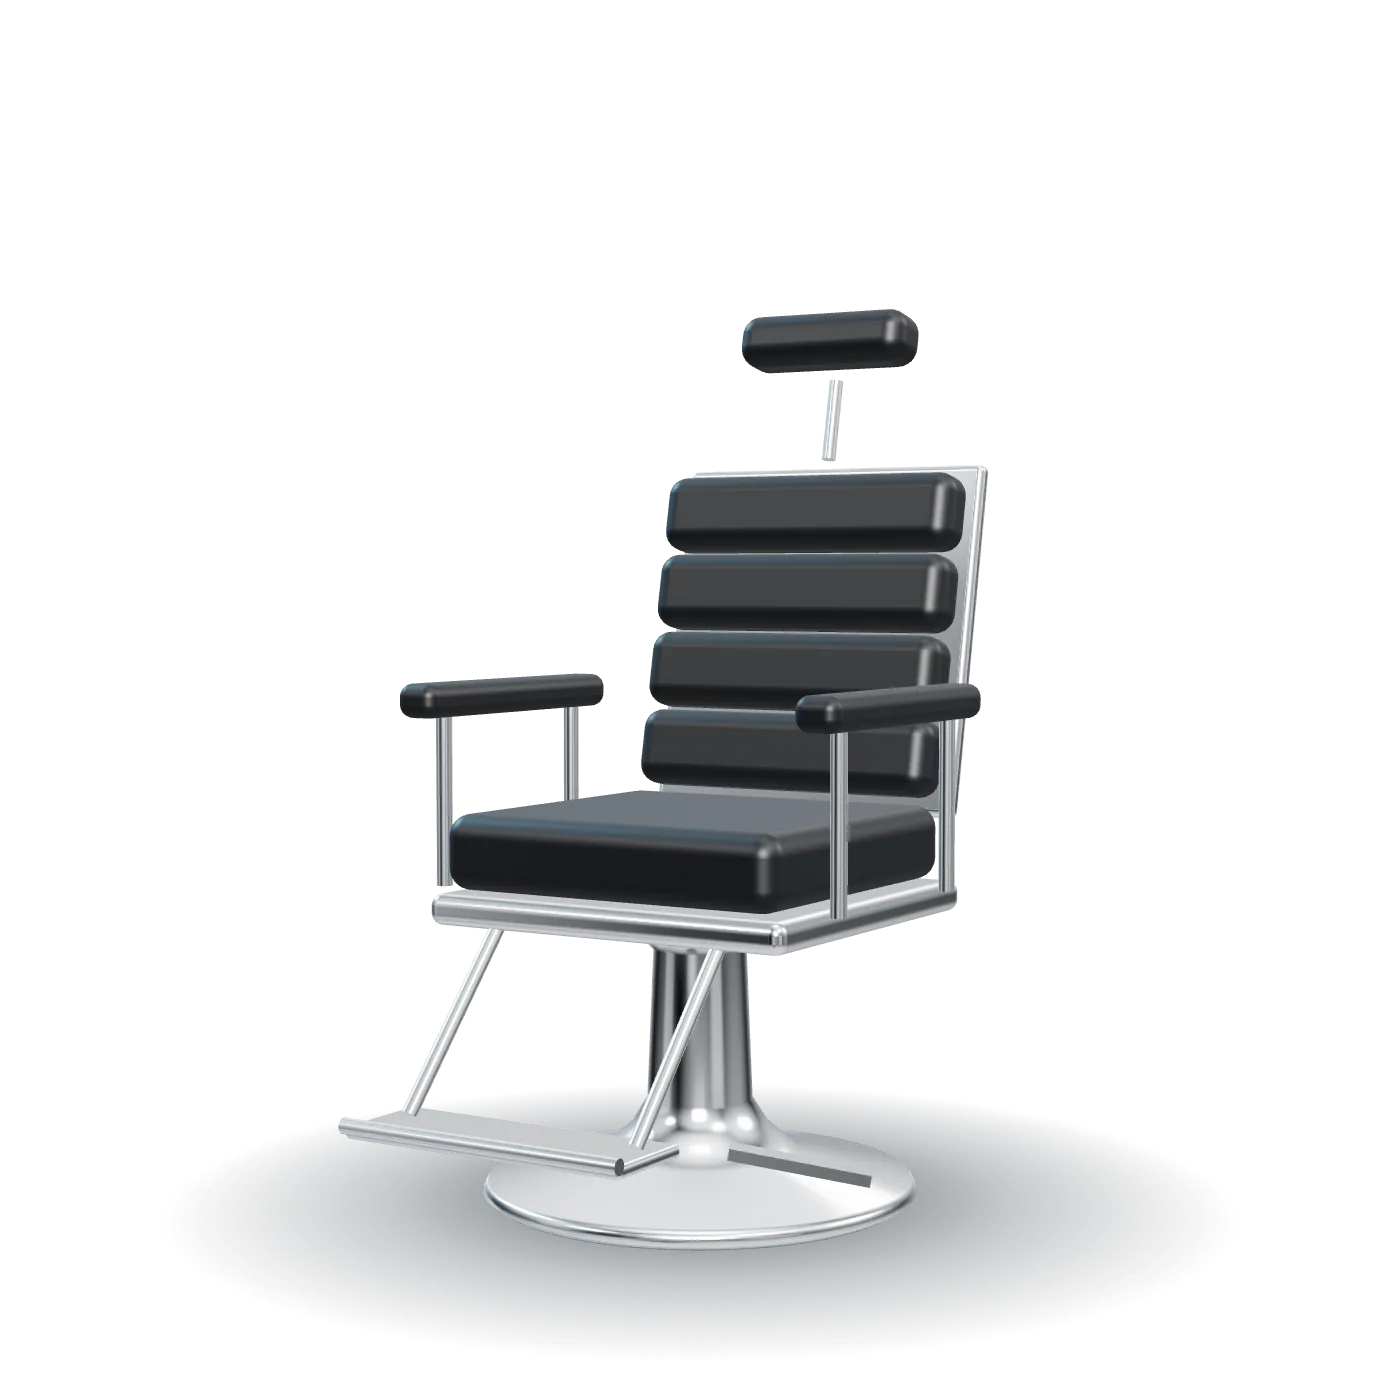
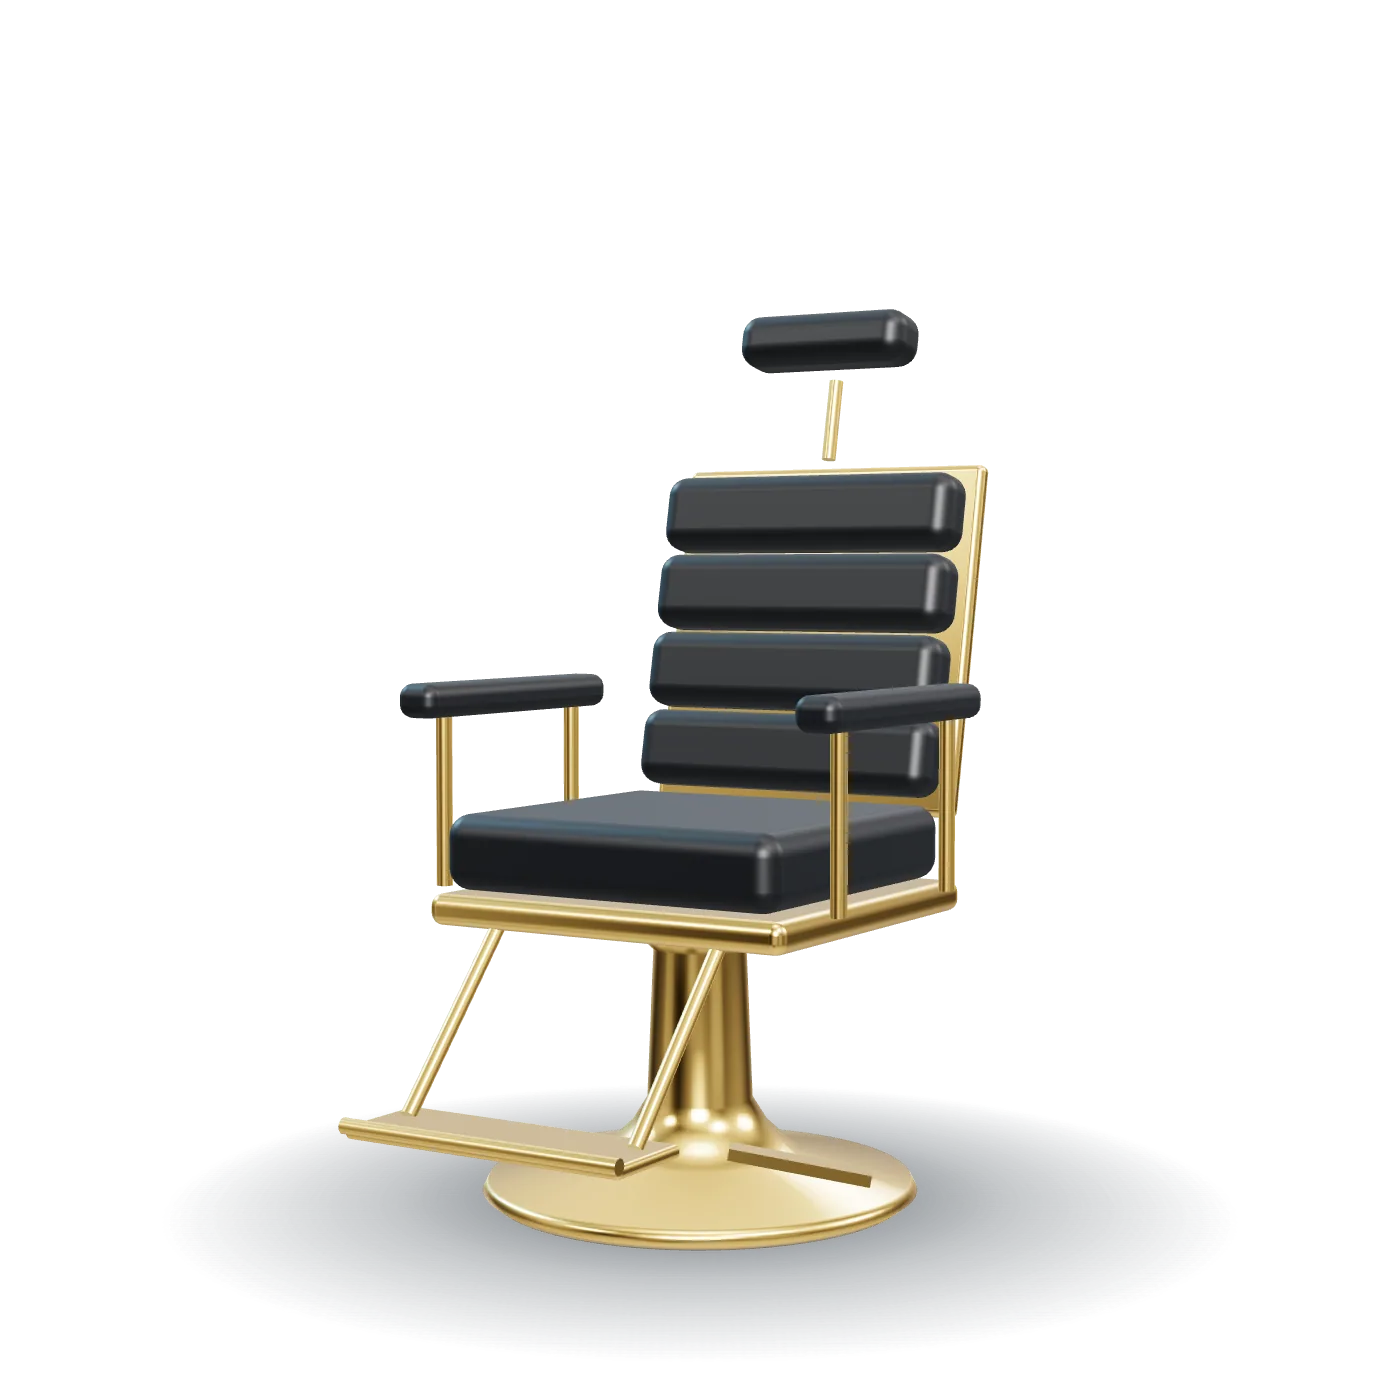
Gold chair, "Punët tona" from the shop's Instagram, the barbers, Instagram and TikTok
- The 3D chair's metal is gold, like the shop's own chairs (black leather on
  gold frames); stills and link-preview images re-rendered.
- "Punët tona / Our work": 8 photos from the shop's public Instagram posts
  (@barber.___.bros), cropped to 4:5, each linking to its post.
- The barbers from the shop's Instagram bio: Edison, Taulant and Danieli, with
  their numbers and handles; one call button each.
- Instagram (@barber.___.bros) and TikTok (@barber.bros8) linked in Visit, the
  footer and the schema.org data (sameAs).

Changed region(s): [[0.2457, 0.2764, 0.7064, 0.8907], [0.3993, 0.4914, 0.43, 0.5836], [0.5221, 0.4914, 0.5529, 0.5221]]

diff --git a/src/i18n/copy.ts b/src/i18n/copy.ts
@@ -23,11 +23,11 @@ export const copy = {
     },
     bar: { preview: 'Parapamje', language: 'Gjuha', names: { sq: 'Shqip', en: 'English' } },
     status: { open: 'Hapur tani · mbyll në {close}', before: 'Mbyllur · hap në {open}', after: 'Mbyllur · hap nesër në {open}' },
-    nav: { label: 'Seksionet', home: 'Barber Bros, faqja kryesore', prices: 'Çmimet', barbers: 'Berberët', visit: 'Ku jemi', footer: 'Fundi i faqes', brand: 'Identiteti i markës' },
-    ids: { prices: 'cmimet', book: 'termini', barbers: 'berberet', visit: 'ku-jemi' },
+    nav: { label: 'Seksionet', home: 'Barber Bros, faqja kryesore', prices: 'Çmimet', work: 'Punët', barbers: 'Berberët', visit: 'Ku jemi', footer: 'Fundi i faqes', brand: 'Identiteti i markës' },
+    ids: { prices: 'cmimet', work: 'punet', book: 'termini', barbers: 'berberet', visit: 'ku-jemi' },
     cta: { book: 'Rezervo', bookLong: ' në WhatsApp', opens: ' (hap WhatsApp)', call: 'Telefono', stop: 'Ndalo', stopLong: ' animacionet' },
     hero: {
-      still: 'Karrige berberi me lëkurë të zezë mbi një bazë kromi',
+      still: 'Karrige berberi me lëkurë të zezë mbi një bazë ngjyrë ari',
       intro: 'Prerje, fade, mjekër dhe rruajtje.',
       cut: 'Prerja.',
       cutLine: 'Gërshërë, makinetë dhe një fade që e mban formën kur rritet.',
@@ -42,7 +42,7 @@ export const copy = {
       from: 'Çmimet nisin nga {from} lekë.',
       others: 'Për {list}, pyet në dyqan, në telefon ose në WhatsApp.',
       cta: 'Merr termin',
-      fig: 'Karrigia e berberit e parë nga anash: shpina me jastëkë lëkure, mbështetësja e këmbëve dhe pedali prej kromi',
+      fig: 'Karrigia e berberit e parë nga anash: shpina me jastëkë lëkure, mbështetësja e këmbëve dhe pedali ngjyrë ari',
     },
     book: {
       title: 'Merr termin',
@@ -65,7 +65,8 @@ export const copy = {
       weekdayPhrases: ['të dielën', 'të hënën', 'të martën', 'të mërkurën', 'të enjten', 'të premten', 'të shtunën'],
       months: ['janar', 'shkurt', 'mars', 'prill', 'maj', 'qershor', 'korrik', 'gusht', 'shtator', 'tetor', 'nëntor', 'dhjetor'],
     },
-    barbers: { title: 'Berberët', photo: 'Foto nga dyqani', name: 'Berberi {n}', soon: 'Emri së shpejti' },
+    work: { title: 'Punët tona', intro: 'Nga Instagrami i dyqanit: prerje, fade dhe mjekra të bëra këtu, në Fier.', credit: 'Foto nga', follow: 'Na ndiq në Instagram', opens: ' (hap Instagram)' },
+    barbers: { title: 'Berberët', photo: 'Foto së shpejti', callName: 'Telefono {name}' },
     visit: {
       title: 'Ku jemi',
       address: 'Adresa',
@@ -93,7 +94,7 @@ export const copy = {
       dlLogo: 'Logoja horizontale, SVG',
       dlIcon: 'Ikona, SVG',
       coloursTitle: 'Dy ngjyra',
-      coloursLead: 'Bluja mbulon sipërfaqen, rreth dy të tretat e çdo faqeje; e zeza mban shkrimin dhe objektet. Kromi dhe e bardha shfaqen vetëm në fotografi dhe te karrigia.',
+      coloursLead: 'Bluja mbulon sipërfaqen, rreth dy të tretat e çdo faqeje; e zeza mban shkrimin dhe objektet. Ari dhe e bardha shfaqen vetëm në fotografi dhe te karrigia.',
       typeTitle: 'Fontet',
       displaySpec: 'Big Shoulders Display',
       displayNote: ', pesha 800-900, me shkronja kapitale. Për emrin, titujt, çmimet dhe tabelat. Licencë SIL Open Font.',
@@ -117,11 +118,11 @@ export const copy = {
     },
     bar: { preview: 'Preview', language: 'Language', names: { sq: 'Shqip', en: 'English' } },
     status: { open: 'Open now · closes {close}', before: 'Closed · opens {open}', after: 'Closed · opens tomorrow {open}' },
-    nav: { label: 'Sections', home: 'Barber Bros, home', prices: 'Prices', barbers: 'Barbers', visit: 'Visit', footer: 'Footer', brand: 'Brand guidelines' },
-    ids: { prices: 'prices', book: 'book', barbers: 'barbers', visit: 'visit' },
+    nav: { label: 'Sections', home: 'Barber Bros, home', prices: 'Prices', work: 'Work', barbers: 'Barbers', visit: 'Visit', footer: 'Footer', brand: 'Brand guidelines' },
+    ids: { prices: 'prices', work: 'work', book: 'book', barbers: 'barbers', visit: 'visit' },
     cta: { book: 'Book', bookLong: ' on WhatsApp', opens: ' (opens WhatsApp)', call: 'Call', stop: 'Stop', stopLong: ' animations' },
     hero: {
-      still: 'A black leather barber chair on a chrome base',
+      still: 'A black leather barber chair on a gold base',
       intro: 'Cuts, fades, beards and shaves.',
       cut: 'The cut.',
       cutLine: 'Scissors, clippers and a fade that keeps its shape as it grows.',
@@ -136,7 +137,7 @@ export const copy = {
       from: 'Prices start at {from} lek.',
       others: 'For {list}, ask in the shop, by phone or on WhatsApp.',
       cta: 'Pick a time',
-      fig: 'The barber chair in profile: leather back, chrome footrest and pump pedal',
+      fig: 'The barber chair in profile: leather back, gold footrest and pump pedal',
     },
     book: {
       title: 'Pick a time',
@@ -158,7 +159,8 @@ export const copy = {
       weekdayPhrases: ['Sunday', 'Monday', 'Tuesday', 'Wednesday', 'Thursday', 'Friday', 'Saturday'],
       months: ['January', 'February', 'March', 'April', 'May', 'June', 'July', 'August', 'September', 'October', 'November', 'December'],
     },
-    barbers: { title: 'The barbers', photo: 'Photo from the shop', name: 'Barber {n}', soon: 'Name coming soon' },
+    work: { title: 'Our work', intro: 'From the shop’s Instagram: cuts, fades and beards done here, in Fier.', credit: 'Photos from', follow: 'Follow us on Instagram', opens: ' (opens Instagram)' },
+    barbers: { title: 'The barbers', photo: 'Photo coming soon', callName: 'Call {name}' },
     visit: {
       title: 'Visit',
       address: 'Address',
@@ -186,7 +188,7 @@ export const copy = {
       dlLogo: 'Horizontal logo, SVG',
       dlIcon: 'App icon, SVG',
       coloursTitle: 'Two colours',
-      coloursLead: 'Barber blue owns the surface, about two thirds of any layout; ink carries type and objects. Chrome and white only ever appear in photographs and in the chair.',
+      coloursLead: 'Barber blue owns the surface, about two thirds of any layout; ink carries type and objects. Gold and white only ever appear in photographs and in the chair.',
       typeTitle: 'Type',
       displaySpec: 'Big Shoulders Display',
       displayNote: ', weight 800-900, uppercase. For the name, headings, prices and signs. SIL Open Font License.',

diff --git a/src/scripts/chair.ts b/src/scripts/chair.ts
@@ -21,7 +21,8 @@ function buildChair() {
   const g = new THREE.Group();
   const leather = new THREE.MeshPhysicalMaterial({ color: 0x0a0c0f, roughness: 0.52, metalness: 0, sheen: 0.55, sheenColor: new THREE.Color(0x1e2a34), sheenRoughness: 0.6, clearcoat: 0.12, clearcoatRoughness: 0.5 });
   // no per-material envMapIntensity: with scene.environment set, three.js uses scene.environmentIntensity instead
-  const chrome = new THREE.MeshStandardMaterial({ color: 0xe6edf2, metalness: 1, roughness: 0.14 });
+  // polished gold, like the shop's own chairs (black leather on gold frames)
+  const gold = new THREE.MeshStandardMaterial({ color: 0xf5c872, metalness: 1, roughness: 0.2 });
   const add = (geo: THREE.BufferGeometry, mat: THREE.Material, x = 0, y = 0, z = 0, parent: THREE.Object3D = g) => {
     const m = new THREE.Mesh(geo, mat);
     m.position.set(x, y, z);
@@ -30,27 +31,27 @@ function buildChair() {
   };
   const rod = (a: THREE.Vector3, b: THREE.Vector3, r: number, parent: THREE.Object3D = g) => {
     const len = a.distanceTo(b);
-    const m = add(new THREE.CylinderGeometry(r, r, len, 20), chrome, (a.x + b.x) / 2, (a.y + b.y) / 2, (a.z + b.z) / 2, parent);
+    const m = add(new THREE.CylinderGeometry(r, r, len, 20), gold, (a.x + b.x) / 2, (a.y + b.y) / 2, (a.z + b.z) / 2, parent);
     m.quaternion.setFromUnitVectors(new THREE.Vector3(0, 1, 0), b.clone().sub(a).normalize());
     return m;
   };
 
   // hydraulic base
   const profile = [[0, 0], [0.33, 0], [0.35, 0.015], [0.34, 0.035], [0.16, 0.075], [0.11, 0.12], [0.085, 0.16], [0.075, 0.4], [0.095, 0.42], [0.095, 0.45], [0, 0.45]].map(([r, y]) => new THREE.Vector2(r, y));
-  add(new THREE.LatheGeometry(profile, 72), chrome);
+  add(new THREE.LatheGeometry(profile, 72), gold);
   // pump pedal
-  const lever = add(new THREE.BoxGeometry(0.22, 0.018, 0.05), chrome, 0.24, 0.1, 0.1);
+  const lever = add(new THREE.BoxGeometry(0.22, 0.018, 0.05), gold, 0.24, 0.1, 0.1);
   lever.rotation.set(0, 0.5, -0.18);
   // seat frame and cushion
-  add(new RoundedBoxGeometry(0.64, 0.05, 0.6, 3, 0.02), chrome, 0, 0.475, 0);
+  add(new RoundedBoxGeometry(0.64, 0.05, 0.6, 3, 0.02), gold, 0, 0.475, 0);
   add(new RoundedBoxGeometry(0.6, 0.12, 0.56, 4, 0.036), leather, 0, 0.565, 0.01);
-  // backrest: channel-tufted rolls on a chrome back plate, leaning back
+  // backrest: channel-tufted rolls on a gold back plate, leaning back
   const back = new THREE.Group();
   back.position.set(0, 0.62, -0.27);
   back.rotation.x = -0.2;
   g.add(back);
   for (let i = 0; i < 4; i++) add(new RoundedBoxGeometry(0.56, 0.13, 0.09, 4, 0.034), leather, 0, 0.08 + i * 0.138, 0, back);
-  add(new RoundedBoxGeometry(0.58, 0.6, 0.03, 3, 0.012), chrome, 0, 0.29, -0.07, back);
+  add(new RoundedBoxGeometry(0.58, 0.6, 0.03, 3, 0.012), gold, 0, 0.29, -0.07, back);
   // headrest on a rod
   rod(new THREE.Vector3(0, 0.6, -0.04), new THREE.Vector3(0, 0.74, -0.04), 0.012, back);
   add(new RoundedBoxGeometry(0.32, 0.09, 0.1, 4, 0.034), leather, 0, 0.8, 0, back);
@@ -62,7 +63,7 @@ function buildChair() {
     rod(new THREE.Vector3(s * 0.2, 0.47, 0.26), new THREE.Vector3(s * 0.2, 0.2, 0.5), 0.012);
   }
   // footrest
-  add(new RoundedBoxGeometry(0.48, 0.02, 0.16, 3, 0.008), chrome, 0, 0.19, 0.52);
+  add(new RoundedBoxGeometry(0.48, 0.02, 0.16, 3, 0.008), gold, 0, 0.19, 0.52);
   rod(new THREE.Vector3(-0.24, 0.2, 0.6), new THREE.Vector3(0.24, 0.2, 0.6), 0.012);
   return g;
 }

diff --git a/src/data/gallery.ts b/src/data/gallery.ts
@@ -1,0 +1,19 @@
+// Work from the shop's own Instagram (@barber.___.bros), public posts read 2026-09-29: cover frames of reels,
+// cropped to 4:5 around the cut (public/img/ig/<post id>.webp). Left out on purpose: the photo with the actor
+// Odise Roshi (it would read as an endorsement) and the one with a child.
+import type { Lang } from '../i18n/copy';
+
+export interface Shot { id: string; kind: 'p' | 'reel'; alt: Record<Lang, string> }
+
+export const gallery: Shot[] = [
+  { id: 'DQ7KrJzjOtJ', kind: 'reel', alt: { sq: 'Fade anash me flokë të teksturuara sipër', en: 'Side fade with a textured top' } },
+  { id: 'DSNBNkejDcD', kind: 'reel', alt: { sq: 'Fade me vijë të prerë anash dhe gjatësi sipër', en: 'Fade with a cut-in line and length on top' } },
+  { id: 'DHMs6DwoCmk', kind: 'reel', alt: { sq: 'Skin fade me mjekër të konturuar', en: 'Skin fade with a lined-up beard' } },
+  { id: 'DOdnSIyAqBe', kind: 'reel', alt: { sq: 'Prerje e teksturuar me balluke dhe taper', en: 'Textured crop with a fringe and a taper' } },
+  { id: 'DI6fyb4qWcv', kind: 'reel', alt: { sq: 'Fade me vijë dhe mjekër, gërshërët në dorë', en: 'Fade with a line and a beard, scissors in hand' } },
+  { id: 'DJ4W_G4KA3A', kind: 'reel', alt: { sq: 'Skin fade i shkurtër, nga anash', en: 'Short skin fade, from the side' } },
+  { id: 'DJmZYB6KGbb', kind: 'reel', alt: { sq: 'Taper me mjekër të rregulluar', en: 'Taper with a trimmed beard' } },
+  { id: 'DJzRMUjKeQP', kind: 'reel', alt: { sq: 'Klient në karrigen e zezë me ar, ndërsa berberi punon me makinetë', en: 'A customer in the black and gold chair while the barber works with clippers' } },
+];
+
+export const postUrl = (s: Shot) => `https://www.instagram.com/${s.kind}/${s.id}/`;

diff --git a/src/data/shop.ts b/src/data/shop.ts
@@ -29,9 +29,21 @@ export const shop = {
     { id: 'mjeker', name: { sq: 'Rregullim mjekre', en: 'Beard trim' }, phrase: { sq: 'një rregullim mjekre', en: 'a beard trim' } },
     { id: 'rruajtje', name: { sq: 'Rruajtje me peshqir të nxehtë', en: 'Hot-towel shave' }, phrase: { sq: 'një rruajtje me peshqir të nxehtë', en: 'a hot-towel shave' } },
   ] as Service[],
-  team: { sample: true, count: 2 },
-  instagram: null as string | null,
+  /** the barbers and their booking numbers, as the shop lists them in its Instagram bio (read 2026-09-29);
+   *  handles from the posts that tag them. No portraits yet. Only the shop number is confirmed on WhatsApp. */
+  team: [
+    { name: 'Edison', phone: '+355 69 473 7557', instagram: 'edison_shametaj' },
+    { name: 'Taulant', phone: '+355 69 299 1511', instagram: null },
+    { name: 'Danieli', phone: '+355 68 328 8053', instagram: 'daniel.muratii' },
+  ] as { name: string; phone: string; instagram: string | null }[],
+  /** the shop's accounts, linked from its Google results */
+  instagram: 'barber.___.bros',
+  tiktok: 'barber.bros8',
 };
+
+export const instagramUrl = (handle: string) => `https://www.instagram.com/${handle}/`;
+export const tiktokUrl = (handle: string) => `https://www.tiktok.com/@${handle}`;
+export const telHref = (phone: string) => `tel:${phone.replace(/[^+\d]/g, '')}`;
 
 /** lek after the number, as on Albanian price boards */
 export const lek = (n: number) => `${n} L`;

diff --git a/NEEDS_CONTENT.md b/NEEDS_CONTENT.md
@@ -15,24 +15,37 @@ Barber Bros is a real shop in Fier, Albania, so nothing may be invented. Every f
 The address, phone and hours come from the shop's Google Maps listing, which Luca confirmed
 is correct.
 
+## From the shop's own accounts (2026-09-29)
+
+- **Instagram:** [@barber.___.bros](https://www.instagram.com/barber.___.bros/) ("Barber Bro’s", 1,050 followers).
+  **TikTok:** [@barber.bros8](https://www.tiktok.com/@barber.bros8) ("Barber Bro’s"). Both linked in the address section,
+  the footer and the Google data (`sameAs`).
+- **The barbers**, from the Instagram bio: Edison (+355 69 473 7557, @edison_shametaj), Taulant
+  (+355 69 299 1511, the shop number) and Danieli (+355 68 328 8053, @daniel.muratii). Each card calls its
+  barber. Only the shop number is confirmed on WhatsApp.
+- **"Punët tona":** 8 images from public Instagram posts (reel covers, 640 x 1136, cropped to 4:5),
+  each linking to its post. Left out on purpose: the photo with the actor Odise Roshi (it would read as
+  an endorsement) and a post with a child.
+- **Their chairs are black and gold**: the 3D chair was repainted gold to match (2026-09-29).
+
 ## Still needed
 
 | # | What | Where it goes | What the site does until then |
 | --- | --- | --- | --- |
 | 1 | The other prices, in lekë: fade, beard trim, shave, anything else they offer | `shop.prices.rows` | Shows the haircut at 500 L and says the other prices are asked in the shop, by phone or on WhatsApp |
 | 2 | Confirm the services the site names: fade, beard trim (rregullim mjekre), hot-towel shave (rruajtje me peshqir të nxehtë) | the scroll captions in `src/pages/index.astro`, `shop.prices.others` | Names them as offered |
-| 3 | How many barbers, their names, one portrait each (4:5, at least 1200 x 1500 px) | `shop.team`, `src/pages/index.astro` #berberet | Two ink frames, "Foto nga dyqani" and "Emri së shpejti" |
-| 4 | Instagram, TikTok or Facebook, if they want them linked | `shop.instagram` | No social links |
+| 3 | One portrait of each barber (4:5, at least 1200 x 1500 px) | `src/components/HomePage.astro` #berberet | Three ink frames with the names and "Foto së shpejti" |
+| 4 | OK from the owner to show the Instagram photos here (customers are recognisable), and the originals in full size | `public/img/ig/`, `src/data/gallery.ts` | Shows 8 reel covers at 640 px |
 | 5 | Domain | `astro.config.mjs` `site` | Runs on localhost only |
 
 ## Photos we would like from the shop
 
-The chair in the scroll scene is a 3D model drawn in code (black leather, chrome base), not
+The chair in the scroll scene is a 3D model drawn in code (black leather on gold, like theirs), not
 their chair. No photos were generated: the Higgsfield account had 0.1 credits on a free plan.
 The section images are renders of the same 3D chair.
 
-- A photo of their actual chair (front and side). If it is not black leather on chrome,
-  the 3D chair gets repainted to match: `src/scripts/chair.ts`, then `node tools/render-stills.mjs`.
+- A photo of their actual chair (front and side), to match its shape and details more closely:
+  `src/scripts/chair.ts`, then `node tools/render-stills.mjs` and `node tools/og.mjs`.
 - Two or three shots of the room: the mirror wall, the counter, the sign outside.
 - Work shots they are proud of (fades, beards), with the customer's permission.
 
@@ -50,7 +63,7 @@ The section images are renders of the same 3D chair.
 
 ## At launch
 
-1. Fill everything above; set `shop.team.sample` to `false`.
+1. Fill everything above.
 2. Delete the "Parapamje / Preview" tag in the top strip (`src/components/Header.astro`) and the
    preview note in the footer (`footer.note` in `src/i18n/copy.ts`).
 3. Remove `<meta name="robots" content="noindex, nofollow">` from `src/layouts/Base.astro`.

diff --git a/BUILD-BRIEF.md b/BUILD-BRIEF.md
@@ -4,7 +4,7 @@
 - **Colours, two only:**
   - Jar Blue `#1F9AD6` (Barbicide jar blue) is the drenched page ground.
   - Ink `#0C0F12` is for type, the chair and controls.
-  - Tones come from color-mix of the two. Chrome and white appear only inside the 3D render. Ink on blue gives about 6:1.
+  - Tones come from color-mix of the two. Gold and white appear only inside the 3D render and in photographs. Ink on blue gives about 6:1.
 - **Type:**
   - Big Shoulders Display (variable 100-900, public/fonts/big-shoulders.woff2) for poster, headings, prices and labels: uppercase, weight 800-900, tracking -0.01em.
   - Schibsted Grotesk (public/fonts/schibsted.woff2) for text, 400-600.
@@ -28,13 +28,13 @@
 
 ## 3D chair (procedural three.js)
 - **Parts:**
-  - hydraulic base: a lathe profile in chrome
-  - pump pedal, footrest (chrome bar + plate)
+  - hydraulic base: a lathe profile in gold
+  - pump pedal, footrest (gold bar + plate)
   - seat cushion and backrest: RoundedBoxGeometry in black leather, MeshPhysicalMaterial with sheen, roughness 0.45
-  - headrest on a chrome rod
-  - armrests: leather on chrome supports
+  - headrest on a gold rod
+  - armrests: leather on gold supports
   - piping/tufting: horizontal grooves as thin inset boxes
-- **Lighting:** RoomEnvironment (PMREM) for the chrome, a key light plus a blue-tinted rim; a soft contact shadow as a radial-gradient plane. Background is transparent, so the blue page shows through.
+- **Lighting:** RoomEnvironment (PMREM) for the gold metal, a key light plus a blue-tinted rim; a soft contact shadow as a radial-gradient plane. Background is transparent, so the blue page shows through.
 - **Performance:** pixel ratio capped at 1.75, antialias on, geometry under 60k triangles, and rendering only while in view. The renderer runs from gsap.ticker (one rAF owner).
 - **Fallback:** public/img/chair-*.webp renders captured with headless Chrome.
 

diff --git a/README.md b/README.md
@@ -4,6 +4,7 @@ Brand and website for Barber Bros, a barbershop in Fier, Albania. Albanian at `/
 
 - **The chair scene:** a black leather barber chair drawn in three.js. Scrolling takes the camera once round it, while captions tell the cut, the shave and "Karrigia jote të pret". On a computer the chair can be grabbed and turned; it settles back on its angle.
 - **Booking in one tap:** every "Rezervo" button opens WhatsApp with the message typed; "Telefono" calls the shop. The "Merr termin" helper writes the message from a service, a day and a time; the barber confirms in the chat.
+- **Punët tona:** work from the shop's Instagram ([@barber.___.bros](https://www.instagram.com/barber.___.bros/)), each photo linking to its post; the barbers Edison, Taulant and Danieli with their numbers; Instagram and [TikTok](https://www.tiktok.com/@barber.bros8) linked.
 - **Open now:** the top strip says whether the shop is open, on Albanian time, and switches SQ / EN.
 - **Map:** the streets around the shop, drawn from OpenStreetMap in the brand colours.
 - **Link previews and Google:** a share image per language, and the shop as a `HairSalon` in schema.org data.
@@ -26,6 +27,7 @@ npm run preview   # the built site on http://127.0.0.1:3691
 | --- | --- |
 | Shop facts: address, phone, WhatsApp, hours, services, prices | `src/data/shop.ts` |
 | Every word, Albanian and English | `src/i18n/copy.ts` |
+| The Instagram work photos and their posts | `src/data/gallery.ts`, `public/img/ig/` |
 | The pages (one component per page, both languages) | `src/components/HomePage.astro`, `src/components/BrandPage.astro` |
 | Colours and the mark's geometry | `src/data/brand.ts` |
 | The chair, its scroll camera and the drag | `src/scripts/chair.ts` |

diff --git a/PRODUCT.md b/PRODUCT.md
@@ -54,7 +54,7 @@ To be confirmed with the shop. Until then the site claims nothing it cannot prov
 
 ## Evidence on Hand
 
-The Google Maps listing (confirmed correct by Luca) and the haircut price. No photos, barbers' names or other prices yet; those slots are labelled.
+The Google Maps listing (confirmed correct by Luca), the haircut price, and the shop's own Instagram (@barber.___.bros: the barbers Edison, Taulant and Danieli with their numbers, 8 work photos) and TikTok (@barber.bros8). No barber portraits or other prices yet; those slots are labelled.
 
 ## Product Principles
 
